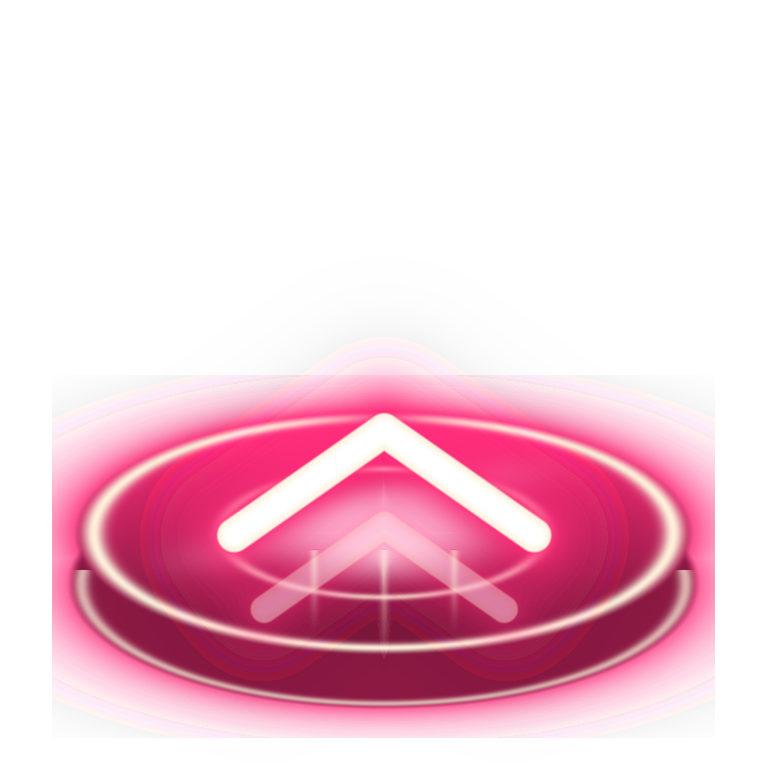
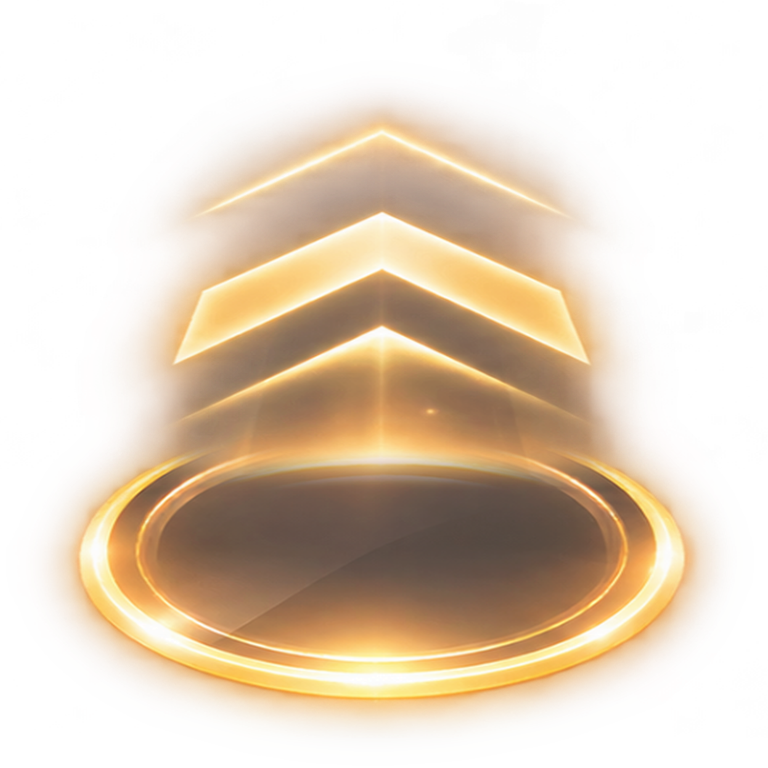
Use the supplied gold note art in SYNK mode
The ring becomes the tap, hold head and hold end cap, fitted to the SSRG
sprite outlines with the six-frame beat pulse. The chevron note becomes the
six-frame flick, its chevrons rising out of the ring. The beam's
cross-section becomes the hold trail: a wide beam of light with bright rims
and glints. Hit flashes and flick sparks are gold to match. The originals
are kept in assets/synk_mode/source.

diff --git a/tools/make_synk_mode_art.py b/tools/make_synk_mode_art.py
@@ -11,7 +11,7 @@ import time
 from pathlib import Path
 
 import numpy as np
-from PIL import Image
+from PIL import Image, ImageFilter
 
 ROOT = Path(__file__).resolve().parent.parent
 SSRG = ROOT / "assets/ssrg/imported"
@@ -20,7 +20,6 @@ OUT = ROOT / "assets/synk_mode"
 CREAM = np.array([255, 241, 220]) / 255
 CORAL = np.array([255, 107, 61]) / 255
 AMBER = np.array([255, 195, 107]) / 255
-FLICK = np.array([255, 45, 122]) / 255
 WHITE = np.ones(3)
 SS = 4  # supersampling for smooth edges
 
@@ -53,58 +52,11 @@ def save(rgb, a, path, size=None):
             time.sleep(.4)
 
 
-# Puck geometry as fractions of its sprite, matched to the SSRG note sprites it replaces
-# (their outline spans x 2..207, y 10..108 of 212 x 116), so notes meet the lane rings and
-# the judgment line exactly as the SSRG notes do.
-PUCK_RX = .47      # half-width of the face
+# Where a note sits in its sprite, as fractions of the sprite, matched to the SSRG note
+# sprites (their outline spans x 2..207, y 10..108 of 212 x 116), so notes meet the lane
+# rings and the judgment line exactly as the SSRG notes do.
 PUCK_TOP = .435    # centre of the top face, from the sprite's top
-PUCK_RY = .34      # half-height of the face
 PUCK_SIDE = .14    # thickness of the side below the face
-
-
-def puck(w, h, color, heat):
-    """A glass puck seen from the player's angle: top face, a coloured side, a halo,
-    a cream rim, a white-hot core and a small four-point sparkle (the SYNK mark)."""
-    W, H = w * SS, h * SS
-    y, x = np.mgrid[0:H, 0:W].astype(float) / SS
-    cx, rx = w / 2, w * PUCK_RX
-    top_cy, ry = h * PUCK_TOP, h * PUCK_RY
-    side = h * PUCK_SIDE  # thickness of the side below the top face
-    r_top = np.sqrt(((x - cx) / rx) ** 2 + ((y - top_cy) / ry) ** 2)
-    r_low = np.sqrt(((x - cx) / rx) ** 2 + ((y - top_cy - side) / ry) ** 2)
-    rgb = np.zeros((H, W, 3)); a = np.zeros((H, W))
-
-    # Halo around the whole puck, brighter on the beat.
-    r_out = np.minimum(r_top, r_low)
-    halo = np.exp(-np.maximum(r_out - 1, 0) * 7) * (r_out > .95) * (.35 + .45 * heat)
-    rgb, a = over(rgb, a, np.broadcast_to(color, rgb.shape), halo)
-
-    # Side: the puck's coloured edge, darker, with a cream lip along its bottom.
-    side_mask = smooth(1.02, .98, r_low) * (y > top_cy)
-    side_col = color * .55
-    lip = np.exp(-((r_low - .97) / .025) ** 2) * (y > top_cy + ry * .3)
-    side_rgb = side_col + (CREAM - side_col) * (lip * .7)[..., None]
-    rgb, a = over(rgb, a, side_rgb, side_mask)
-
-    # Top face.
-    face = smooth(1.0, .97, r_top)
-    shade = np.clip(.75 + .35 * (top_cy - y) / ry, .5, 1.1)  # lit from above
-    body = np.clip(color * shade[..., None], 0, 1)
-    core_t = smooth(.5, .1, r_top) * (.35 + .6 * heat)
-    body = body + (WHITE - body) * core_t[..., None]
-    rim = np.exp(-((r_top - .93) / .035) ** 2)
-    ring = np.exp(-((r_top - .52) / .025) ** 2) * .8
-    body = body + (CREAM - body) * np.clip(rim + ring, 0, 1)[..., None]
-    # A soft diagonal sheen across the upper left of the face.
-    sheen = np.exp(-(((x - cx) * .45 + (y - top_cy) * 1.6 + ry * .35) / (ry * .28)) ** 2) * smooth(.9, .3, r_top) * .35
-    body = body + (WHITE - body) * sheen[..., None]
-    rgb, a = over(rgb, a, body, face)
-
-    # The SYNK sparkle: a four-point star in the middle of the face.
-    dx, dy = np.abs(x - cx) / (rx * .3), np.abs(y - top_cy) / (ry * .5)
-    star = np.clip(1.15 * (1 - (np.sqrt(dx) + np.sqrt(dy))), 0, 1) ** .8 * (.75 + .25 * heat)
-    rgb, a = over(rgb, a, np.broadcast_to(WHITE, rgb.shape), star * face)
-    return rgb, a
 
 
 def downsample(rgb, a, w, h):
@@ -114,66 +66,105 @@ def downsample(rgb, a, w, h):
     return small[..., :3] / np.maximum(sa, 1e-6)[..., None], sa
 
 
+# --- Notes from the supplied artwork (assets/synk_mode/source) -------------------------
+# ring.png: the gold ring note. flick.png: the ring with three rising chevrons.
+# trail.png: the hold beam. They are fitted to the game's note logic here: the sprite
+# sizes and outlines of the SSRG notes they replace, the six-frame beat pulse, the
+# six-frame rising flick, and a cross-section for the hold trail.
+SOURCE = OUT / "source"
+
+
+def outline(img):
+    """Bounding box (x0, y0, x1, y1) of the solid part of an RGBA image."""
+    alpha = np.asarray(img)[..., 3]
+    ys, xs = np.where(alpha > 127)
+    return xs.min(), ys.min(), xs.max() + 1, ys.max() + 1
+
+
+def place(img, src_box, dst_box, size, shift=(0, 0)):
+    """`img` scaled so that `src_box` lands on `dst_box`, on a transparent canvas."""
+    sx = (dst_box[2] - dst_box[0]) / (src_box[2] - src_box[0])
+    sy = (dst_box[3] - dst_box[1]) / (src_box[3] - src_box[1])
+    scaled = img.convert("RGBa").resize((max(1, round(img.width * sx)), max(1, round(img.height * sy))), Image.LANCZOS).convert("RGBA")
+    ox = round(dst_box[0] - src_box[0] * sx + shift[0]); oy = round(dst_box[1] - src_box[1] * sy + shift[1])
+    canvas = Image.new("RGBA", size, (0, 0, 0, 0))
+    # Crop what falls outside the canvas, then lay it down.
+    left, top = max(0, -ox), max(0, -oy)
+    right, bottom = min(scaled.width, size[0] - ox), min(scaled.height, size[1] - oy)
+    if right > left and bottom > top:
+        canvas.alpha_composite(scaled.crop((left, top, right, bottom)), (ox + left, oy + top))
+    return canvas
+
+
+def pulse(img, heat):
+    """The beat pulse: a soft bloom behind the note and a brighter face, by `heat` (0..1)."""
+    arr = np.asarray(img).astype(float) / 255
+    bloom = np.asarray(img.filter(ImageFilter.GaussianBlur(max(2, img.width / 45)))).astype(float) / 255
+    rgb, a = over(bloom[..., :3], bloom[..., 3] * heat * .85, arr[..., :3], arr[..., 3])
+    rgb = rgb + (1 - rgb) * (.28 * heat)
+    return rgb, a
+
+
 def notes():
-    for prefix, color, (w, h) in [("tap", CORAL, (212, 116)), ("hold", AMBER, (212, 116)), ("tail", AMBER, (132, 72))]:
+    ring = Image.open(SOURCE / "ring.png").convert("RGBA")
+    box = outline(ring)
+    for prefix, size, dst in [("tap", (212, 116), (2, 10, 208, 109)), ("hold", (212, 116), (2, 10, 208, 109)), ("tail", (132, 72), (3, 3, 130, 65))]:
+        fitted = place(ring, box, dst, size)
         for i, heat in enumerate(HEAT, start=1):
-            rgb, a = downsample(*puck(w, h, color, heat), w, h)
-            save(rgb, a, OUT / f"{prefix}{i}.png")
-
-
-def seg_dist(x, y, a, b):
-    """Distance from each pixel to the segment a-b."""
-    ax, ay = a; bx, by = b
-    vx, vy = bx - ax, by - ay
-    t = np.clip(((x - ax) * vx + (y - ay) * vy) / (vx * vx + vy * vy), 0, 1)
-    return np.hypot(x - ax - t * vx, y - ay - t * vy)
-
-
-def chevron(x, y, cx, cy, half, drop, width):
-    """Distance field of an up-pointing chevron (^) with its tip at (cx, cy)."""
-    tip = (cx, cy)
-    return np.minimum(seg_dist(x, y, (cx - half, cy + drop), tip), seg_dist(x, y, tip, (cx + half, cy + drop))) - width / 2
+            save(*pulse(fitted, heat), OUT / f"{prefix}{i}.png")
 
 
 def flick():
-    """The SYNK flick: a hot-pink puck in the tap/hold style, and a cream double chevron
-    in a pink glow that rises over six frames (the game loops them up and down). Same
-    768 px frame as the original flick art: the disc is 636 px wide, centred at y=553."""
-    size, ss = 768, 2
-    # The original flick's disc is 623 px wide, with its outline centred at y=558.5.
-    w = round(623 / (2 * PUCK_RX)); h = round(w * 116 / 212)
-    top_cy = (PUCK_TOP + PUCK_SIDE / 2) * h
+    """Six flick frames in the original flick's 768 px layout (disc 623 px wide, outline
+    centred at y=558.5): the ring, with the supplied chevrons rising out of it frame by
+    frame (the game loops the frames up and down)."""
+    size = (768, 768)
+    ring = Image.open(SOURCE / "ring.png").convert("RGBA")
+    art = Image.open(SOURCE / "flick.png").convert("RGBA")
+    ring_box = outline(ring)
+    disc = (71, 409, 695, 709)
+    base = place(ring, ring_box, disc, size)
+    # The chevrons are what the flick art has beyond the plain ring.
+    a_flick = np.asarray(art).astype(float) / 255
+    chevrons = a_flick.copy()
+    # Keep the art above the ring's top edge and fade it out just inside the ring, so the
+    # chevrons seem to rise out of it without doubling the ring's own rim.
+    rows = np.arange(art.height)[:, None]
+    chevrons[..., 3] = a_flick[..., 3] * smooth(ring_box[1] + 34, ring_box[1] - 6, rows)
+    chevron_img = Image.fromarray(np.clip(chevrons * 255 + .5, 0, 255).astype(np.uint8), "RGBA")
+    # Same width scale as the ring; a little less tall so the stack fits the frame.
+    sx = (disc[2] - disc[0]) / (ring_box[2] - ring_box[0])
+    ring_cx = (ring_box[0] + ring_box[2]) / 2; ring_cy = (ring_box[1] + ring_box[3]) / 2
+    src = (0, 0, art.width, art.height)
+    w, h = art.width * sx, art.height * 1.2
     for i in range(6):
         k = i / 5
-        rgb = np.zeros((size, size, 3)); a = np.zeros((size, size))
-        prgb, pa = downsample(*puck(w, h, FLICK, HEAT[min(i, 2)]), w, h)
-        x0, y0 = round(size / 2 - w / 2), round(558.5 - top_cy)
-        y1 = min(size, y0 + h)
-        crop = y1 - y0
-        sub_rgb = rgb[y0:y1, x0:x0 + w]; sub_a = a[y0:y1, x0:x0 + w]
-        sub_rgb, sub_a = over(sub_rgb, sub_a, prgb[:crop], pa[:crop])
-        rgb[y0:y1, x0:x0 + w] = sub_rgb; a[y0:y1, x0:x0 + w] = sub_a
-
-        # Chevrons, supersampled: the main one rises from the puck's face to well above
-        # it; a fainter one trails below it, so the arrow reads as moving up.
-        Y, X = np.mgrid[0:size * ss, 0:size * ss].astype(float) / ss
-        crgb = np.zeros((size * ss, size * ss, 3)); ca = np.zeros((size * ss, size * ss))
-        tip = 430 - 250 * k
-        for offset, strength, scale in [(95, .45, .8), (0, 1.0, 1.0)]:
-            d = chevron(X, Y, size / 2, tip + offset, 150 * scale, 105 * scale, 34 * scale)
-            glow = np.exp(-np.maximum(d, 0) / 26) * .85 * strength
-            crgb, ca = over(crgb, ca, np.broadcast_to(FLICK, crgb.shape), glow)
-            core = smooth(1.5, -1.5, d) * strength
-            body = CREAM + (WHITE - CREAM) * smooth(0, -10, d)[..., None]
-            crgb, ca = over(crgb, ca, body, core)
-        # A few speed streaks under the chevron.
-        for dx, length in [(-70, 90), (0, 130), (70, 90)]:
-            sx = size / 2 + dx; sy = tip + 120
-            streak = np.exp(-((X - sx) / 4) ** 2) * smooth(sy + length, sy, Y) * (Y > sy) * .5
-            crgb, ca = over(crgb, ca, np.broadcast_to(CREAM, crgb.shape), streak)
-        crgb, ca = downsample(crgb, ca, size, size)
-        rgb, a = over(rgb, a, crgb, ca)
+        ox = 383 - ring_cx * sx; oy = 558.5 - ring_cy * 1.2 + (34 - 84 * k)
+        rising = place(chevron_img, src, (ox, oy, ox + w, oy + h), size)
+        frame = base.copy(); frame.alpha_composite(rising)
+        rgb, a = pulse(frame, HEAT[min(i, 2)] * .6)
         save(rgb, a, OUT / f"flick{i + 1}.png")
+
+
+def trail():
+    """The hold trail's cross-section, from the supplied beam: its colours and opacity
+    from edge to edge (bright rims, darker glassy middle, faint inner streaks), averaged
+    along its length. solid_trail.gdshader stretches it along every hold and slide."""
+    beam = np.asarray(Image.open(SOURCE / "trail.png").convert("RGBA")).astype(float) / 255
+    rows = []
+    for y in range(int(beam.shape[0] * .45), int(beam.shape[0] * .9), 6):
+        xs = np.where(beam[y, :, 3] > .05)[0]
+        if len(xs) < 50: continue
+        strip = beam[y:y + 1, xs.min():xs.max() + 1]
+        strip = np.concatenate([strip[..., :3] * strip[..., 3:], strip[..., 3:]], axis=2)   # premultiplied
+        img = Image.fromarray(np.clip(strip * 255 + .5, 0, 255).astype(np.uint8), "RGBA").resize((256, 1), Image.LANCZOS)
+        rows.append(np.asarray(img).astype(float) / 255)
+    mean = np.mean(rows, axis=0)
+    mean = (mean + mean[:, ::-1]) / 2                       # even on both sides
+    alpha = mean[..., 3]
+    rgb = mean[..., :3] / np.maximum(alpha, 1e-6)[..., None]
+    alpha = alpha * smooth(0, 6, np.minimum(np.arange(256), 255 - np.arange(256)))[None, :]   # soft outer edge
+    save(np.repeat(rgb, 4, axis=0), np.repeat(alpha, 4, axis=0), OUT / "trail_profile.png")
 
 
 def pause():
@@ -362,5 +353,5 @@ def judgment():
 
 if __name__ == "__main__":
     OUT.mkdir(parents=True, exist_ok=True)
-    notes(); flick(); guide(); rail(); judgment(); pause(); hit()
+    notes(); flick(); trail(); guide(); rail(); judgment(); pause(); hit()
     print("SYNK mode art written to", OUT)
